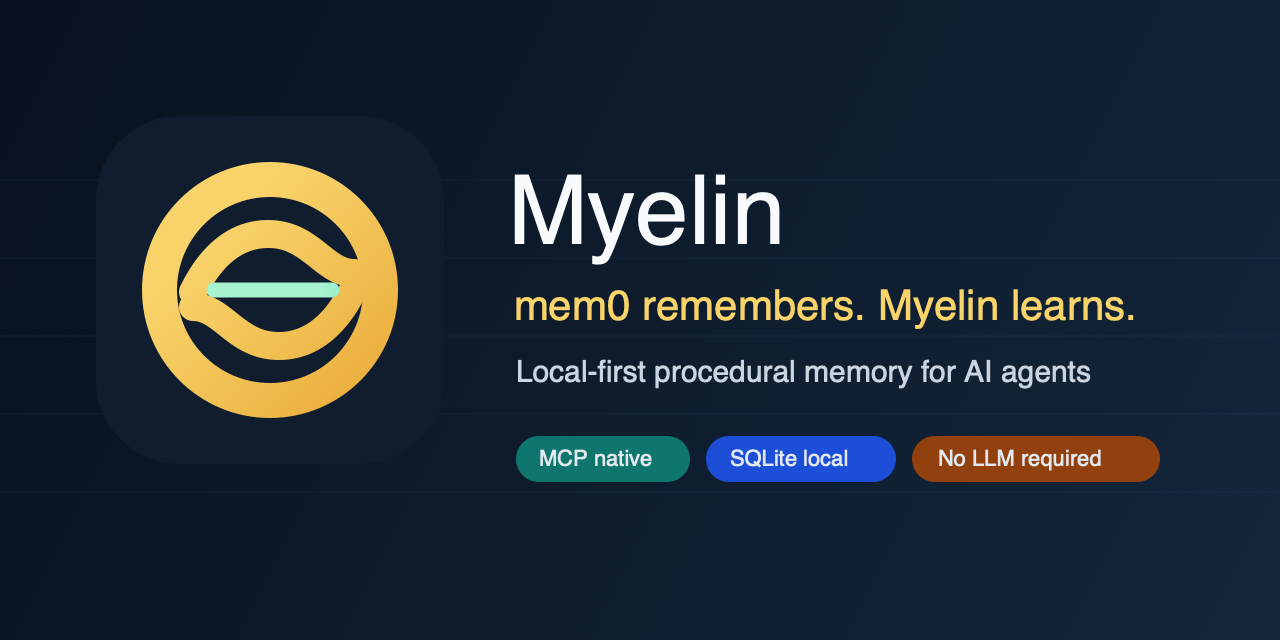
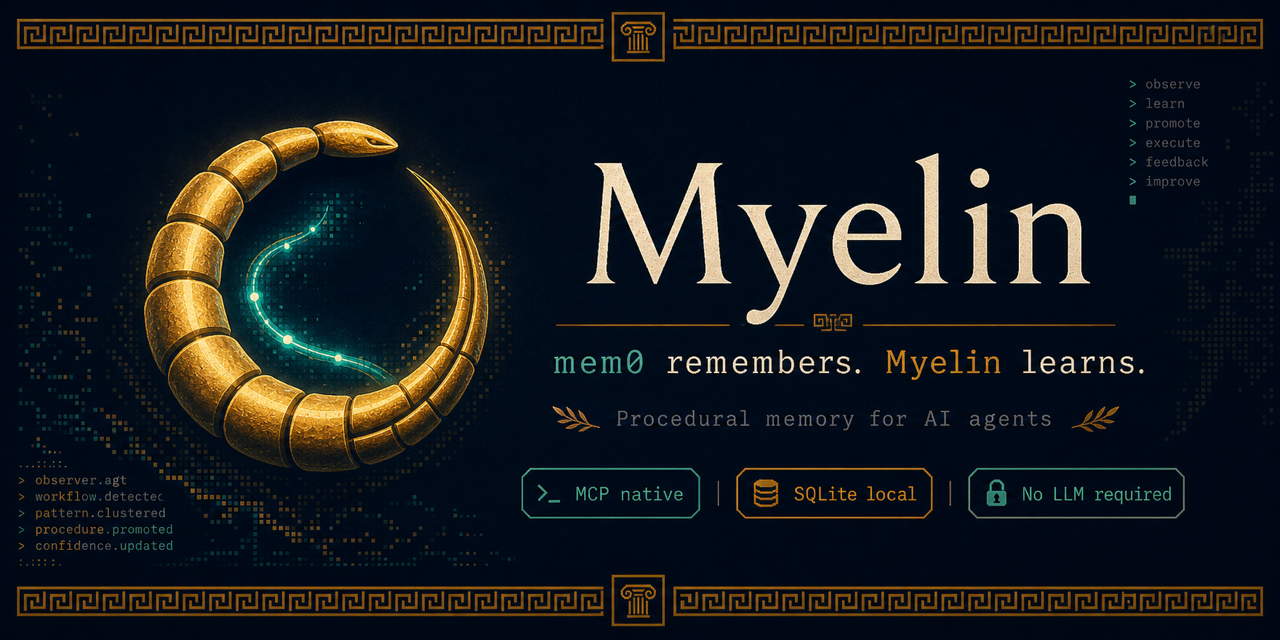
docs: refresh Myelin visual identity

diff --git a/docs/BRAND.md b/docs/BRAND.md
@@ -24,6 +24,9 @@ Brand assets:
 - `assets/brand/myelin-wordmark.svg`
 - `assets/brand/social-preview.svg`
 - `assets/brand/social-preview.png`
+- `assets/brand/myelin-greek-social-preview.png`
+
+The README and GitHub social preview should use `assets/brand/social-preview.png`. The SVG files remain useful for scalable logo work, docs, and future package artwork.
 
 ## Palette
 
@@ -43,3 +46,9 @@ Brand assets:
 - Say “procedure learning” more than “memory.”
 - Be explicit about local-first and no LLM requirement for core operations.
 - Avoid benchmark claims unless they are freshly verified.
+
+## Greek-Tech Direction
+
+The stronger visual direction is a Greek-tech sigil: a golden myelin sheath with a subtle ouroboros curve around a teal signal path. It gives the project more character than a plain terminal dashboard while staying connected to the name.
+
+Keep the serpent reference subtle. Myelin should not become a mascot, fantasy snake, or security-brand cliché.

diff --git a/docs/LAUNCH_KIT.md b/docs/LAUNCH_KIT.md
@@ -65,4 +65,4 @@ Recommended topics:
 ai-agents, mcp, memory, procedural-memory, cognitive-architecture, sqlite, agent-framework, llm-tools
 ```
 
-Use `assets/brand/social-preview.png` for the repository social preview. GitHub repository settings require uploading the image manually.
+Use `assets/brand/social-preview.png` for the repository social preview. It uses the Greek-tech myelin sheath direction and is sized at 1280x640. GitHub repository settings require uploading the image manually.

diff --git a/README.md b/README.md
@@ -1,5 +1,5 @@
 <p align="center">
-  <img src="assets/brand/myelin-wordmark.svg" alt="Myelin: mem0 remembers. Myelin learns." width="760">
+  <img src="assets/brand/social-preview.png" alt="Myelin: mem0 remembers. Myelin learns." width="920">
 </p>
 
 <p align="center">
